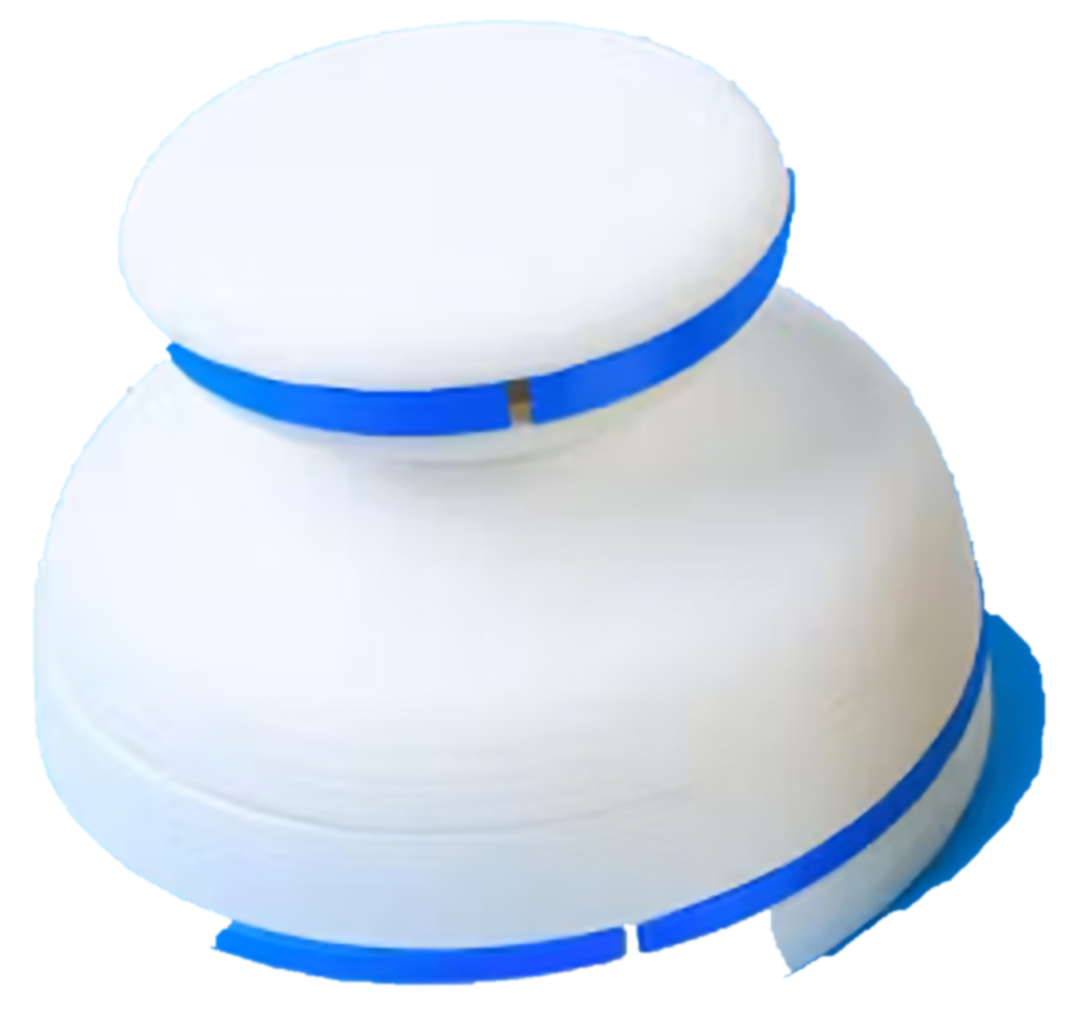
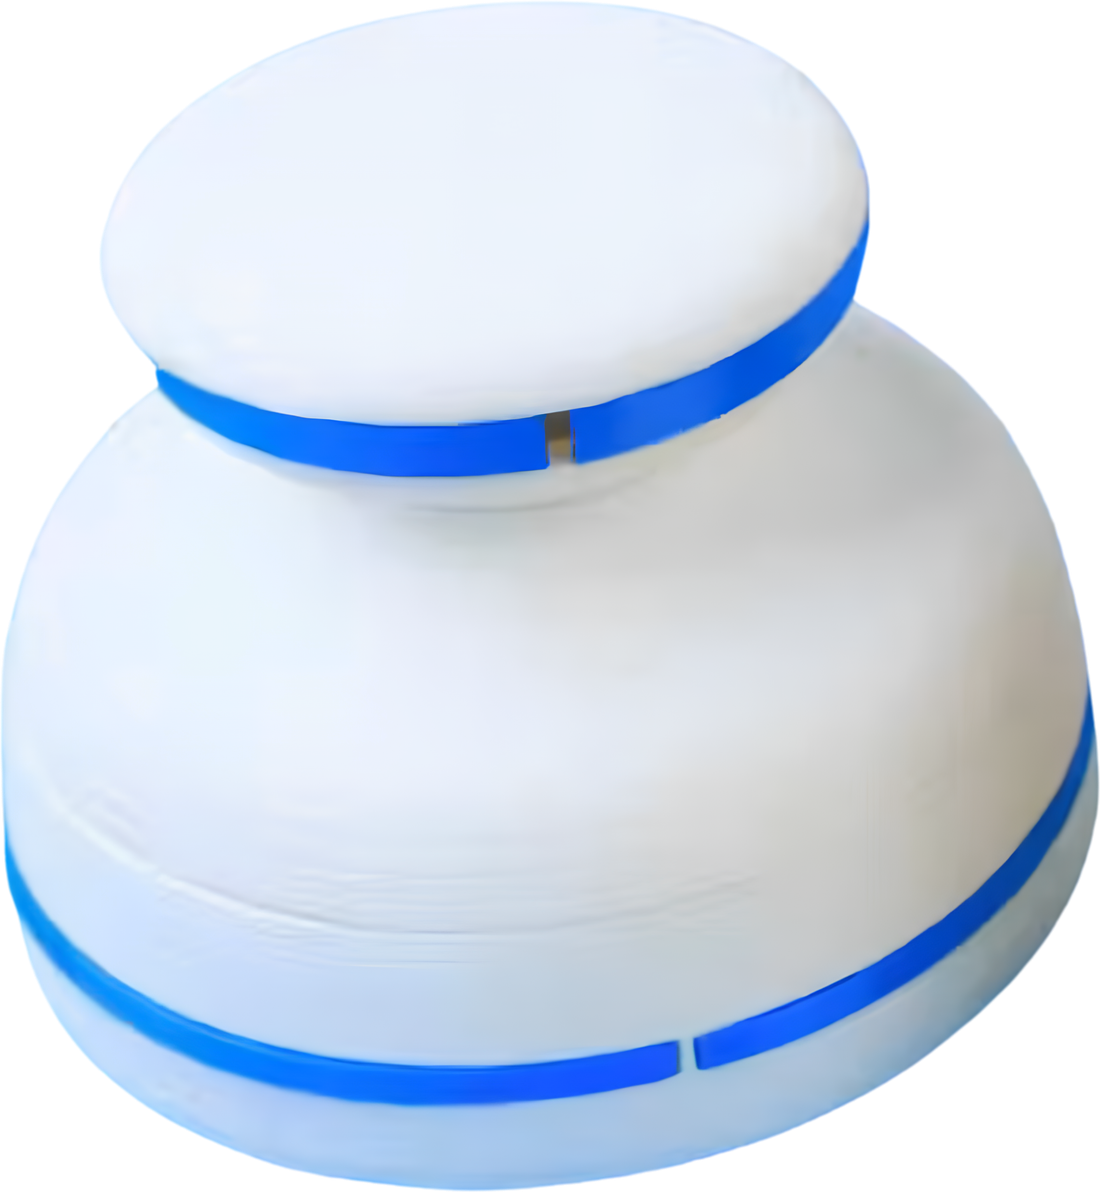
Add files via upload

diff --git a/viampulse/index.html b/viampulse/index.html
@@ -182,7 +182,7 @@
       </div>
     </div>
     <div class="phead-art">
-      <img class="product-img" src="estetoscopio.png" alt="Prototipo del estetoscopio digital ViamPulse" width="460" height="437">
+      <img class="product-img" src="estetoscopio.png" alt="Prototipo del estetoscopio digital ViamPulse" width="460" height="498">
     </div>
   </div>
 </section>
@@ -247,7 +247,7 @@
       <div class="repo dl-card">
         <span class="oss"><svg width="16" height="16" viewBox="0 0 24 24" fill="none" stroke="var(--accent)" stroke-width="2" stroke-linecap="round" stroke-linejoin="round"><path d="M12 3v12m0 0l-4-4m4 4l4-4M5 21h14"/></svg>App para Android · APK</span>
         <!-- ▼▼ Mismo enlace del APK que en el hero ▼▼ -->
-        <a class="gh dl" href="REEMPLAZA_CON_URL_DEL_APK" download="ViamPulse.apk">
+        <a class="gh dl" href="https://github.com/Viam26/ViamPI/releases/download/ViamPulse/ViamPulse.apk" download="ViamPulse.apk">
           <svg width="17" height="17" viewBox="0 0 24 24" fill="none" stroke="currentColor" stroke-width="2.2" stroke-linecap="round" stroke-linejoin="round"><path d="M12 3v12m0 0l-4-4m4 4l4-4M5 21h14"/></svg>
           Descargar aplicación
         </a>
@@ -281,10 +281,11 @@
    - enlace : URL de la tienda que lo vende (deja "" si no hay)
    ========================================================= */
 const PRODUCTOS = [
-  { nombre:"Estetoscopio genérico",          precio:8.00,  cantidad:1, enlace:"" },
-  { nombre:"Raspberry Pi Pico",              precio:6.50,  cantidad:1, enlace:"" },
-  { nombre:"Micrófono / sensor de sonido",   precio:4.00,  cantidad:1, enlace:"" },
-  { nombre:"Cables y componentes varios",    precio:3.00,  cantidad:1, enlace:"" },
+  { nombre:"Estetoscopio genérico",          precio:6.95,  cantidad:1, enlace:"https://www.amazon.com/dp/B00HW8EEOG?ref=ppx_yo2ov_dt_b_fed_asin_title&th=1" },
+  { nombre:"Raspberry Pi Pico",              precio:11.99,  cantidad:1, enlace:"https://www.amazon.com/dp/B08TVF499B?ref=ppx_yo2ov_dt_b_fed_asin_title" },
+  { nombre:"Adaptador de audio USB",   precio:11.99,  cantidad:1, enlace:"https://www.amazon.com/dp/B01N905VOY?ref=ppx_yo2ov_dt_b_fed_asin_title" },
+  { nombre:"Micrófono BOYA",    precio:14.95,  cantidad:1, enlace:"https://www.amazon.com/dp/B00MRMU2HU?ref=ppx_yo2ov_dt_b_fed_asin_title" },
+  { nombre:"Bateria de litio recargable",    precio:9.99,  cantidad:1, enlace:"https://www.amazon.com/dp/B0CM64RMT9?ref=ppx_yo2ov_dt_b_fed_asin_title" },
 ];
 const MONEDA = "$";   // símbolo de moneda
 